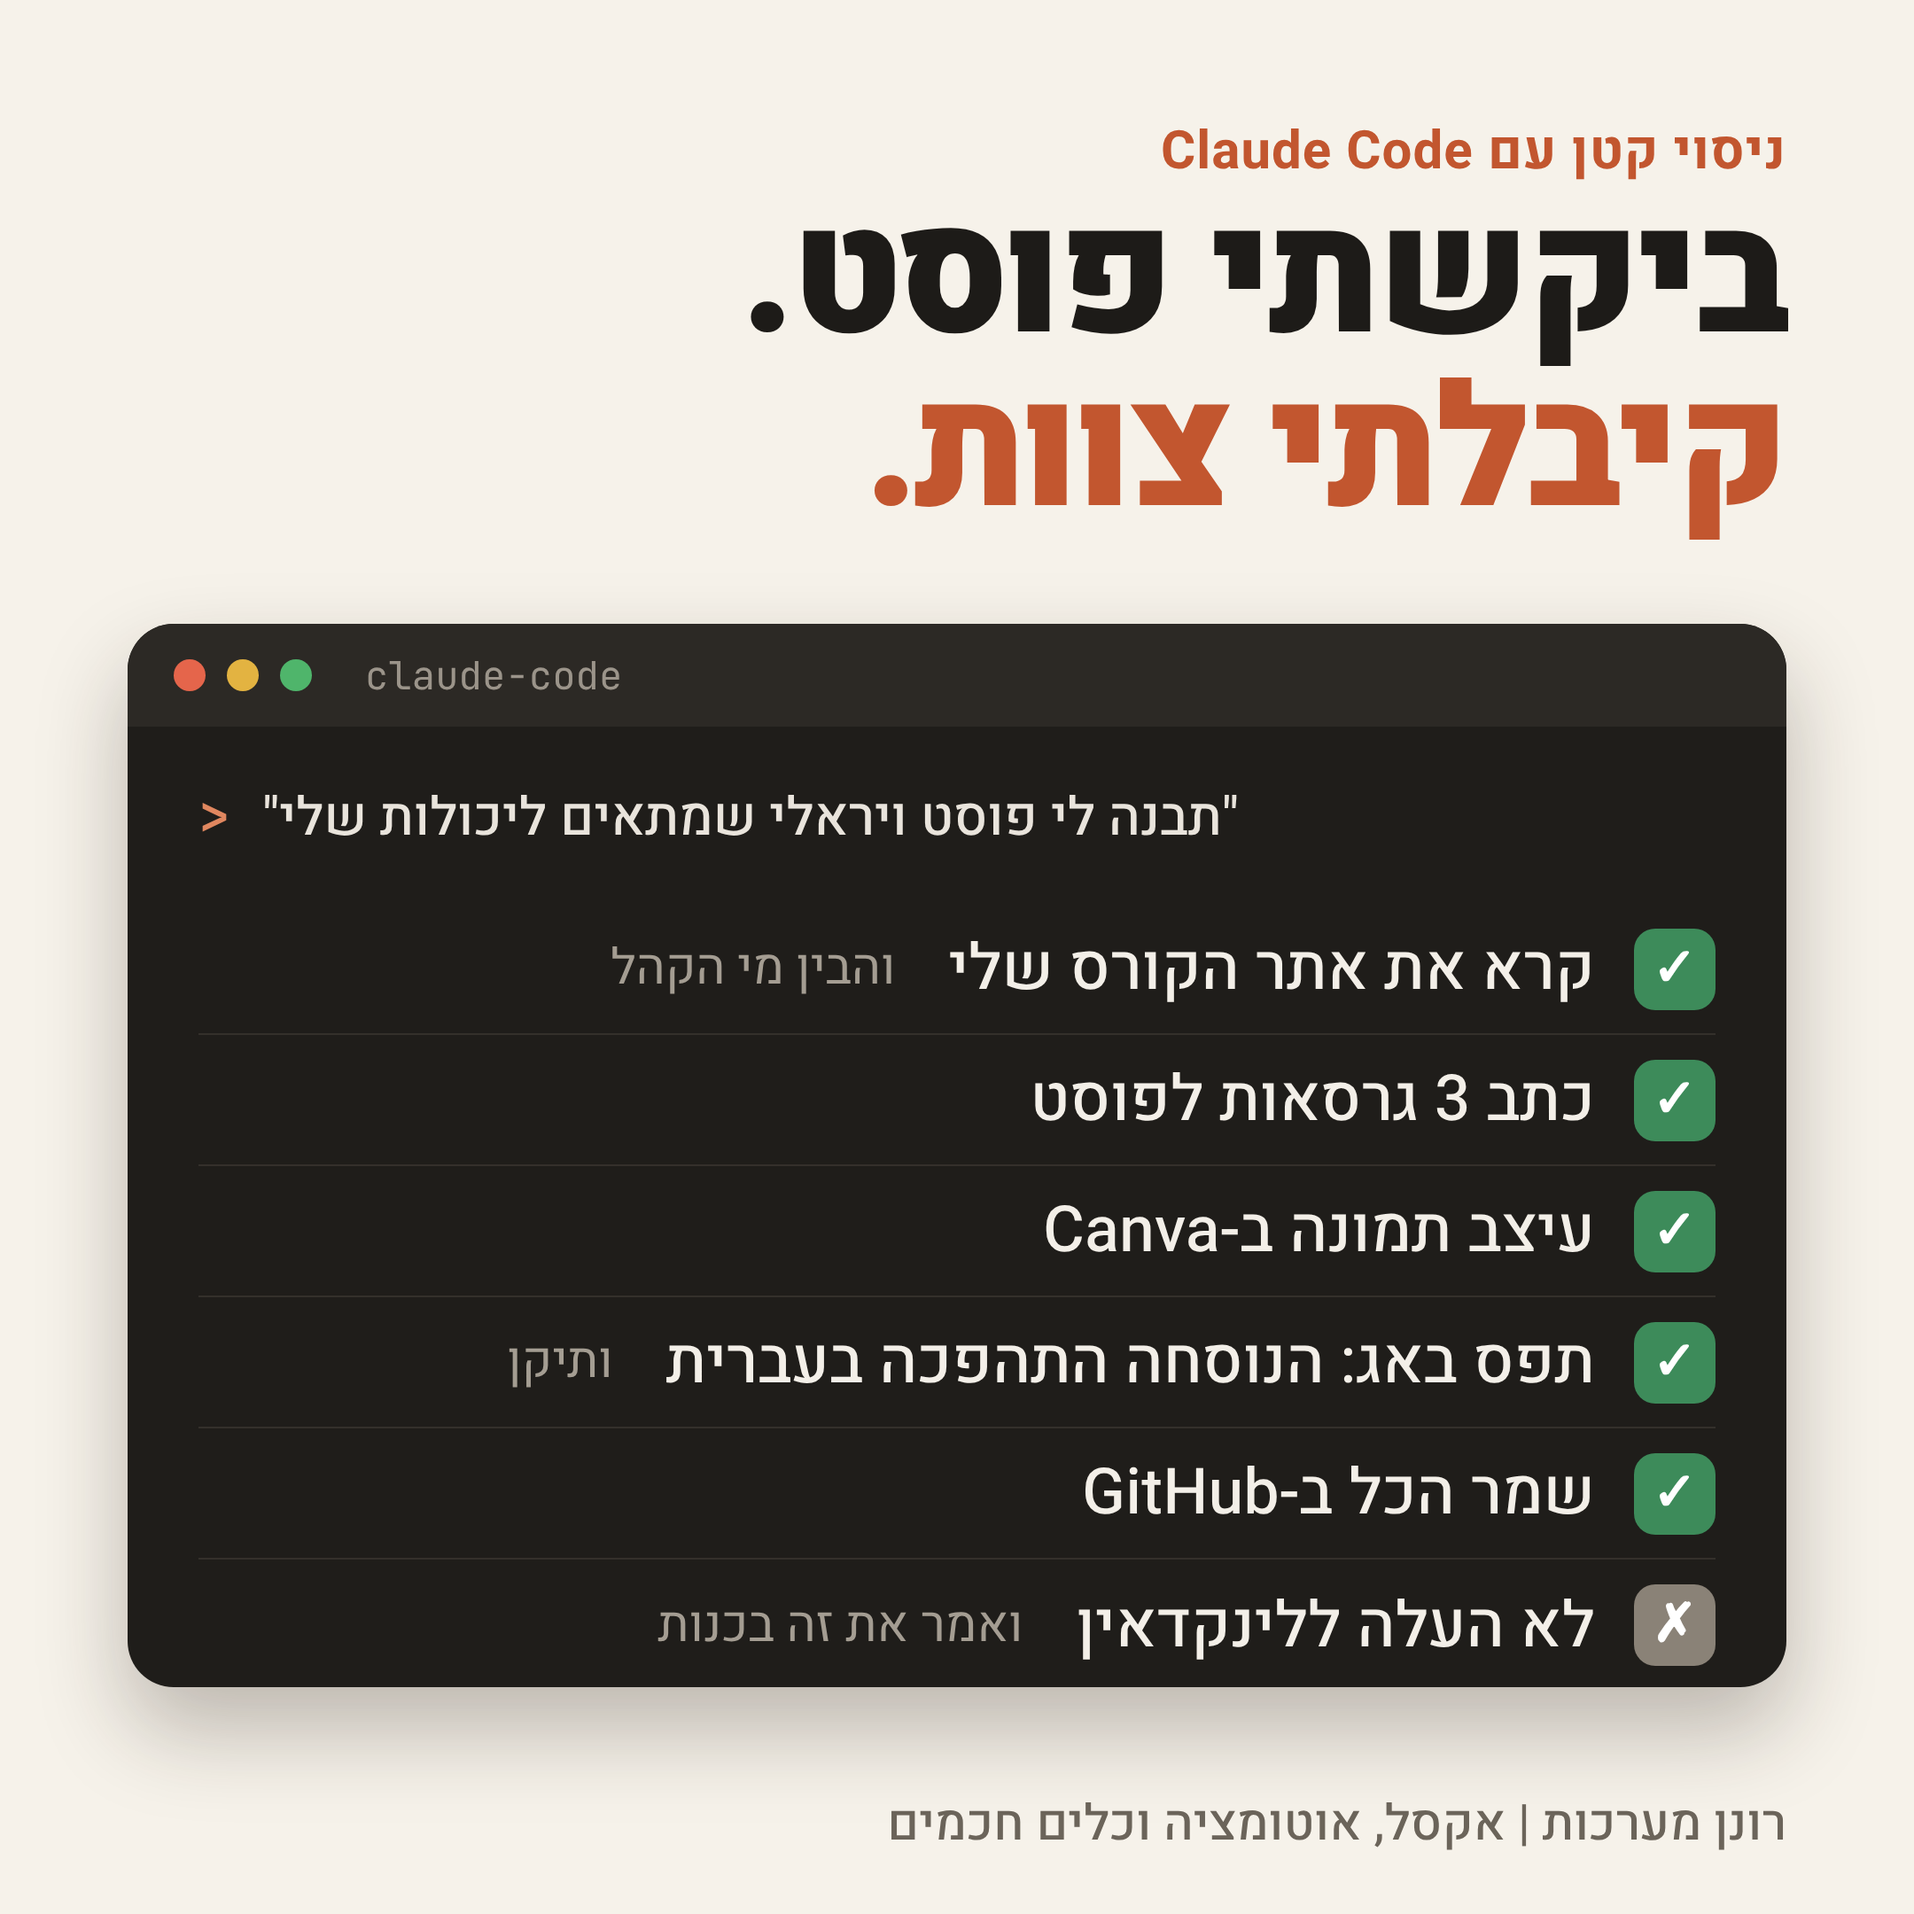
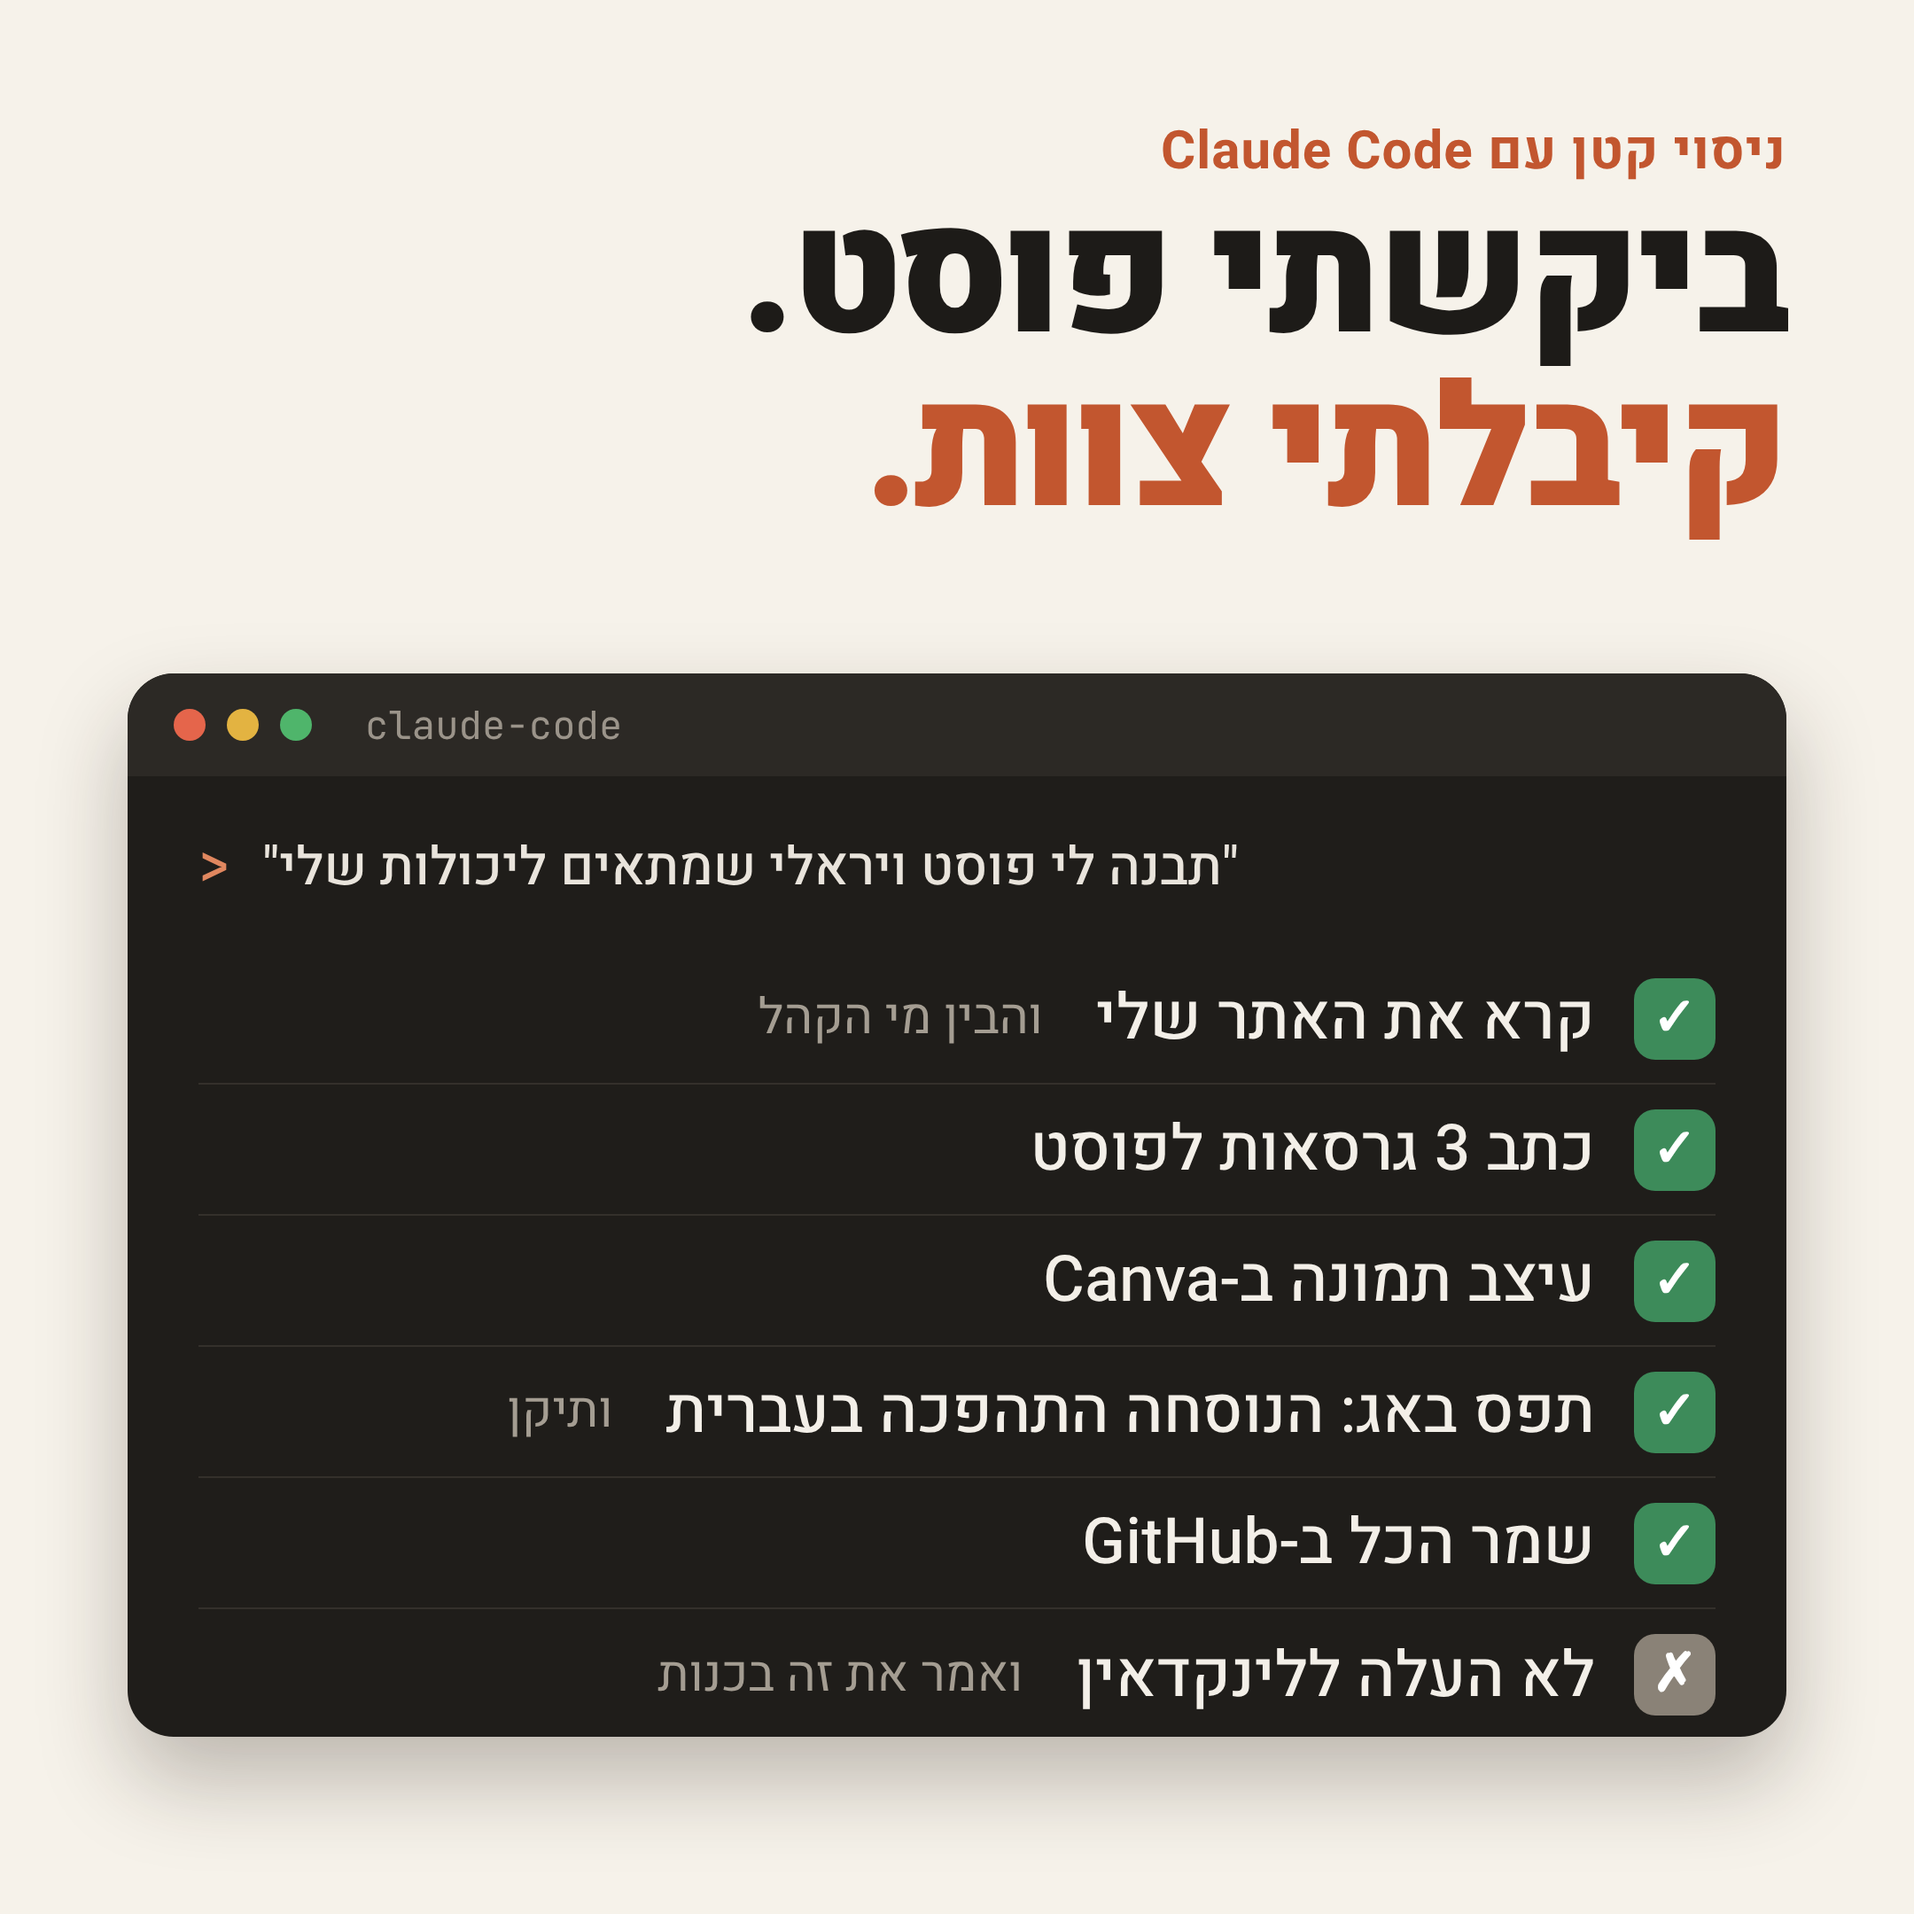
Remove branding and course mentions from Claude Code post
Claude-Session: https://claude.ai/code/session_014SomJybwinMgbsp5g4ETJW

diff --git a/linkedin/claude-code-image.html b/linkedin/claude-code-image.html
@@ -21,7 +21,7 @@
   }
   h1 em { font-style: normal; color: #c2562f; }
   .term {
-    position: absolute; top: 352px; left: 72px; right: 72px; height: 600px;
+    position: absolute; top: 380px; left: 72px; right: 72px; height: 600px;
     background: #1f1d1a; border-radius: 26px; overflow: hidden;
     box-shadow: 0 24px 50px rgba(40,30,20,.28);
   }
@@ -65,7 +65,7 @@
     </div>
     <div class="prompt"><span class="c">&gt;</span> <span class="q">"תבנה לי פוסט ויראלי שמתאים ליכולות שלי"</span></div>
     <ul>
-      <li><span class="ok">✓</span>קרא את אתר הקורס שלי<span class="sub">והבין מי הקהל</span></li>
+      <li><span class="ok">✓</span>קרא את האתר שלי<span class="sub">והבין מי הקהל</span></li>
       <li><span class="ok">✓</span>כתב 3 גרסאות לפוסט</li>
       <li><span class="ok">✓</span>עיצב תמונה ב-Canva</li>
       <li><span class="ok">✓</span>תפס באג: הנוסחה התהפכה בעברית<span class="sub">ותיקן</span></li>
@@ -74,6 +74,5 @@
     </ul>
   </div>
 
-  <div class="foot">רונן מערכות | אקסל, אוטומציה וכלים חכמים</div>
 </body>
 </html>
